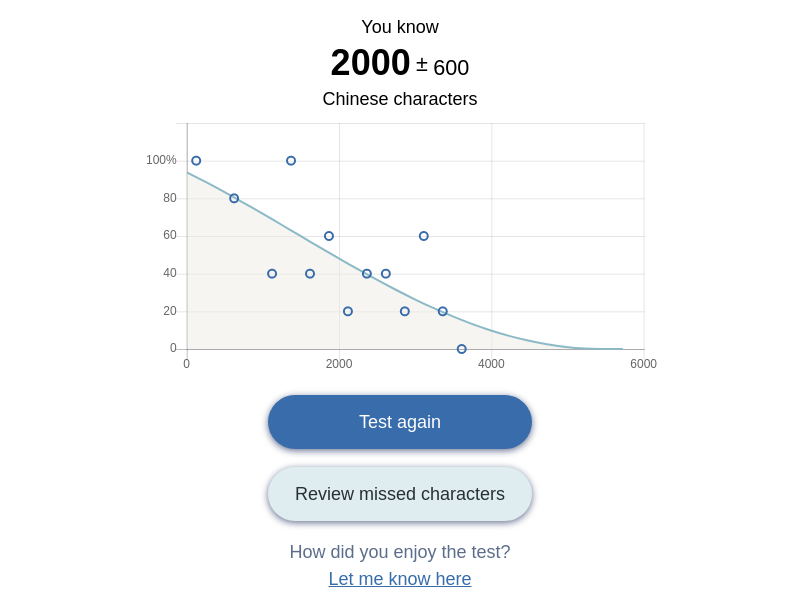
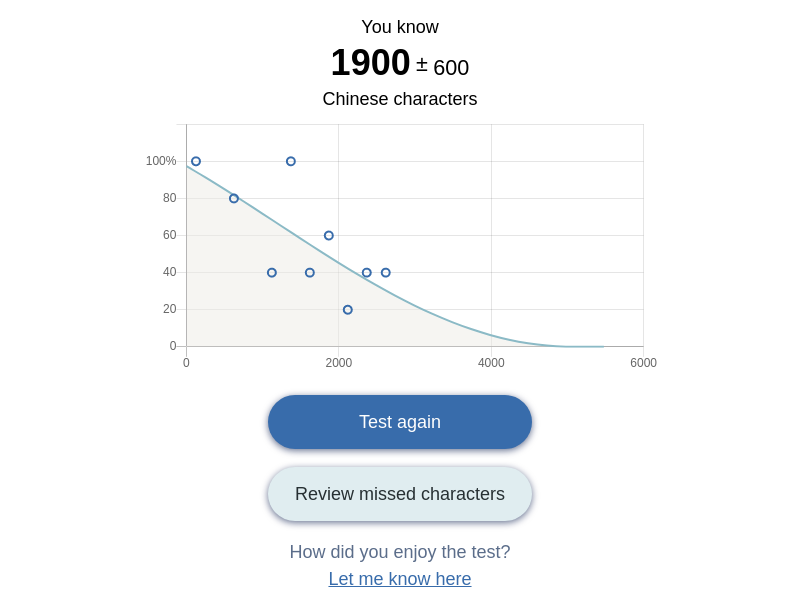
Fix up CharacterTest

diff --git a/ui-test/test.js b/ui-test/test.js
@@ -59,28 +59,28 @@ describe('E2E test', function () {
     await page.close();
   });
 
-  // it('fails after the first 5 failures', async () => {
-  //   await markNextNKnown(page, 0);
-  //   await waitForResults(page);
-  //   await assertScreenshotMatchesPrevious(page, 'fail-all');
-  // });
-  //
-  // it('fails after 2 consecutive failures', async () => {
-  //   await markNextNKnown(page, 5);
-  //   await markNextNKnown(page, 0);
-  //   await markNextNKnown(page, 0);
-  //   await waitForResults(page);
-  //   await assertScreenshotMatchesPrevious(page, 'fail-consecutive');
-  // });
-  //
-  // it('fails after 2 non-consecutive failures', async () => {
-  //   await markNextNKnown(page, 5);
-  //   await markNextNKnown(page, 0);
-  //   await markNextNKnown(page, 3);
-  //   await markNextNKnown(page, 0);
-  //   await waitForResults(page);
-  //   await assertScreenshotMatchesPrevious(page, 'fail-non-consecutive');
-  // });
+  it('fails after the first 5 failures', async () => {
+    await markNextNKnown(page, 0);
+    await waitForResults(page);
+    await assertScreenshotMatchesPrevious(page, 'fail-all');
+  });
+
+  it('fails after 2 consecutive failures', async () => {
+    await markNextNKnown(page, 5);
+    await markNextNKnown(page, 0);
+    await markNextNKnown(page, 0);
+    await waitForResults(page);
+    await assertScreenshotMatchesPrevious(page, 'fail-consecutive');
+  });
+
+  it('fails after 2 non-consecutive failures', async () => {
+    await markNextNKnown(page, 5);
+    await markNextNKnown(page, 0);
+    await markNextNKnown(page, 3);
+    await markNextNKnown(page, 0);
+    await waitForResults(page);
+    await assertScreenshotMatchesPrevious(page, 'fail-non-consecutive');
+  });
 
   it('completes a realistic test', async function () {
     await markNextNKnown(page, 5);
@@ -92,10 +92,6 @@ describe('E2E test', function () {
     await markNextNKnown(page, 1);
     await markNextNKnown(page, 2);
     await markNextNKnown(page, 2);
-    await markNextNKnown(page, 1);
-    await markNextNKnown(page, 3);
-    await markNextNKnown(page, 1);
-    await markNextNKnown(page, 0);
     await waitForResults(page);
     await assertScreenshotMatchesPrevious(page, 'realistic');
   });

diff --git a/client/src/characterTest/CharacterTest.test.js b/client/src/characterTest/CharacterTest.test.js
@@ -26,10 +26,8 @@ describe('CharacterTest', () => {
   let cardStackButtons;
 
   function setup(props) {
-    const currentCard = { index: 1, score: NaN };
-
     component = renderer.create(
-      <CharacterTest currentCard={currentCard} {...props} />
+      <CharacterTest currentCard={{ i: 1 }} {...props} />
     );
     cardStackDisplay = component.root.findByType(CardStackDisplay);
     cardStackButtons = component.root.findByType(CardStackButtons);

diff --git a/client/src/card/CardStackDisplay.js b/client/src/card/CardStackDisplay.js
@@ -122,6 +122,7 @@ export default class CardStackDisplay extends Component {
     const touchActive = !!this.state.activeTouch;
     const [ dx ] = this.state.offsetVector;
 
+    // console.log({card, showDefinition, discardThreshold, characterSet, lastEntryKnown})
     return (
       <div
         className={cx(style.touchArea, { [style.touchAreaSnap]: touchActive })}

diff --git a/client/src/characterTest/CharacterTest.js b/client/src/characterTest/CharacterTest.js
@@ -120,6 +120,7 @@ class CharacterTest extends Component {
     const { isShowDefinition, characterSet } = this.props;
     const { card, lastEntryKnown } = this.state;
 
+    // console.log({ isShowDefinition, characterSet, card, lastEntryKnown })
     return (
       <div className={cx(style.container, this.props.className)}>
         <CardStackDisplay

diff --git a/client/src/characterTest/__mocks__/react-transition-group.js b/client/src/characterTest/__mocks__/react-transition-group.js
@@ -1,0 +1,7 @@
+import React from 'react';
+
+module.exports = {
+  CSSTransitionGroup: ({ children, ...props }) => {
+    return <div>{children}</div>;
+  },
+};
